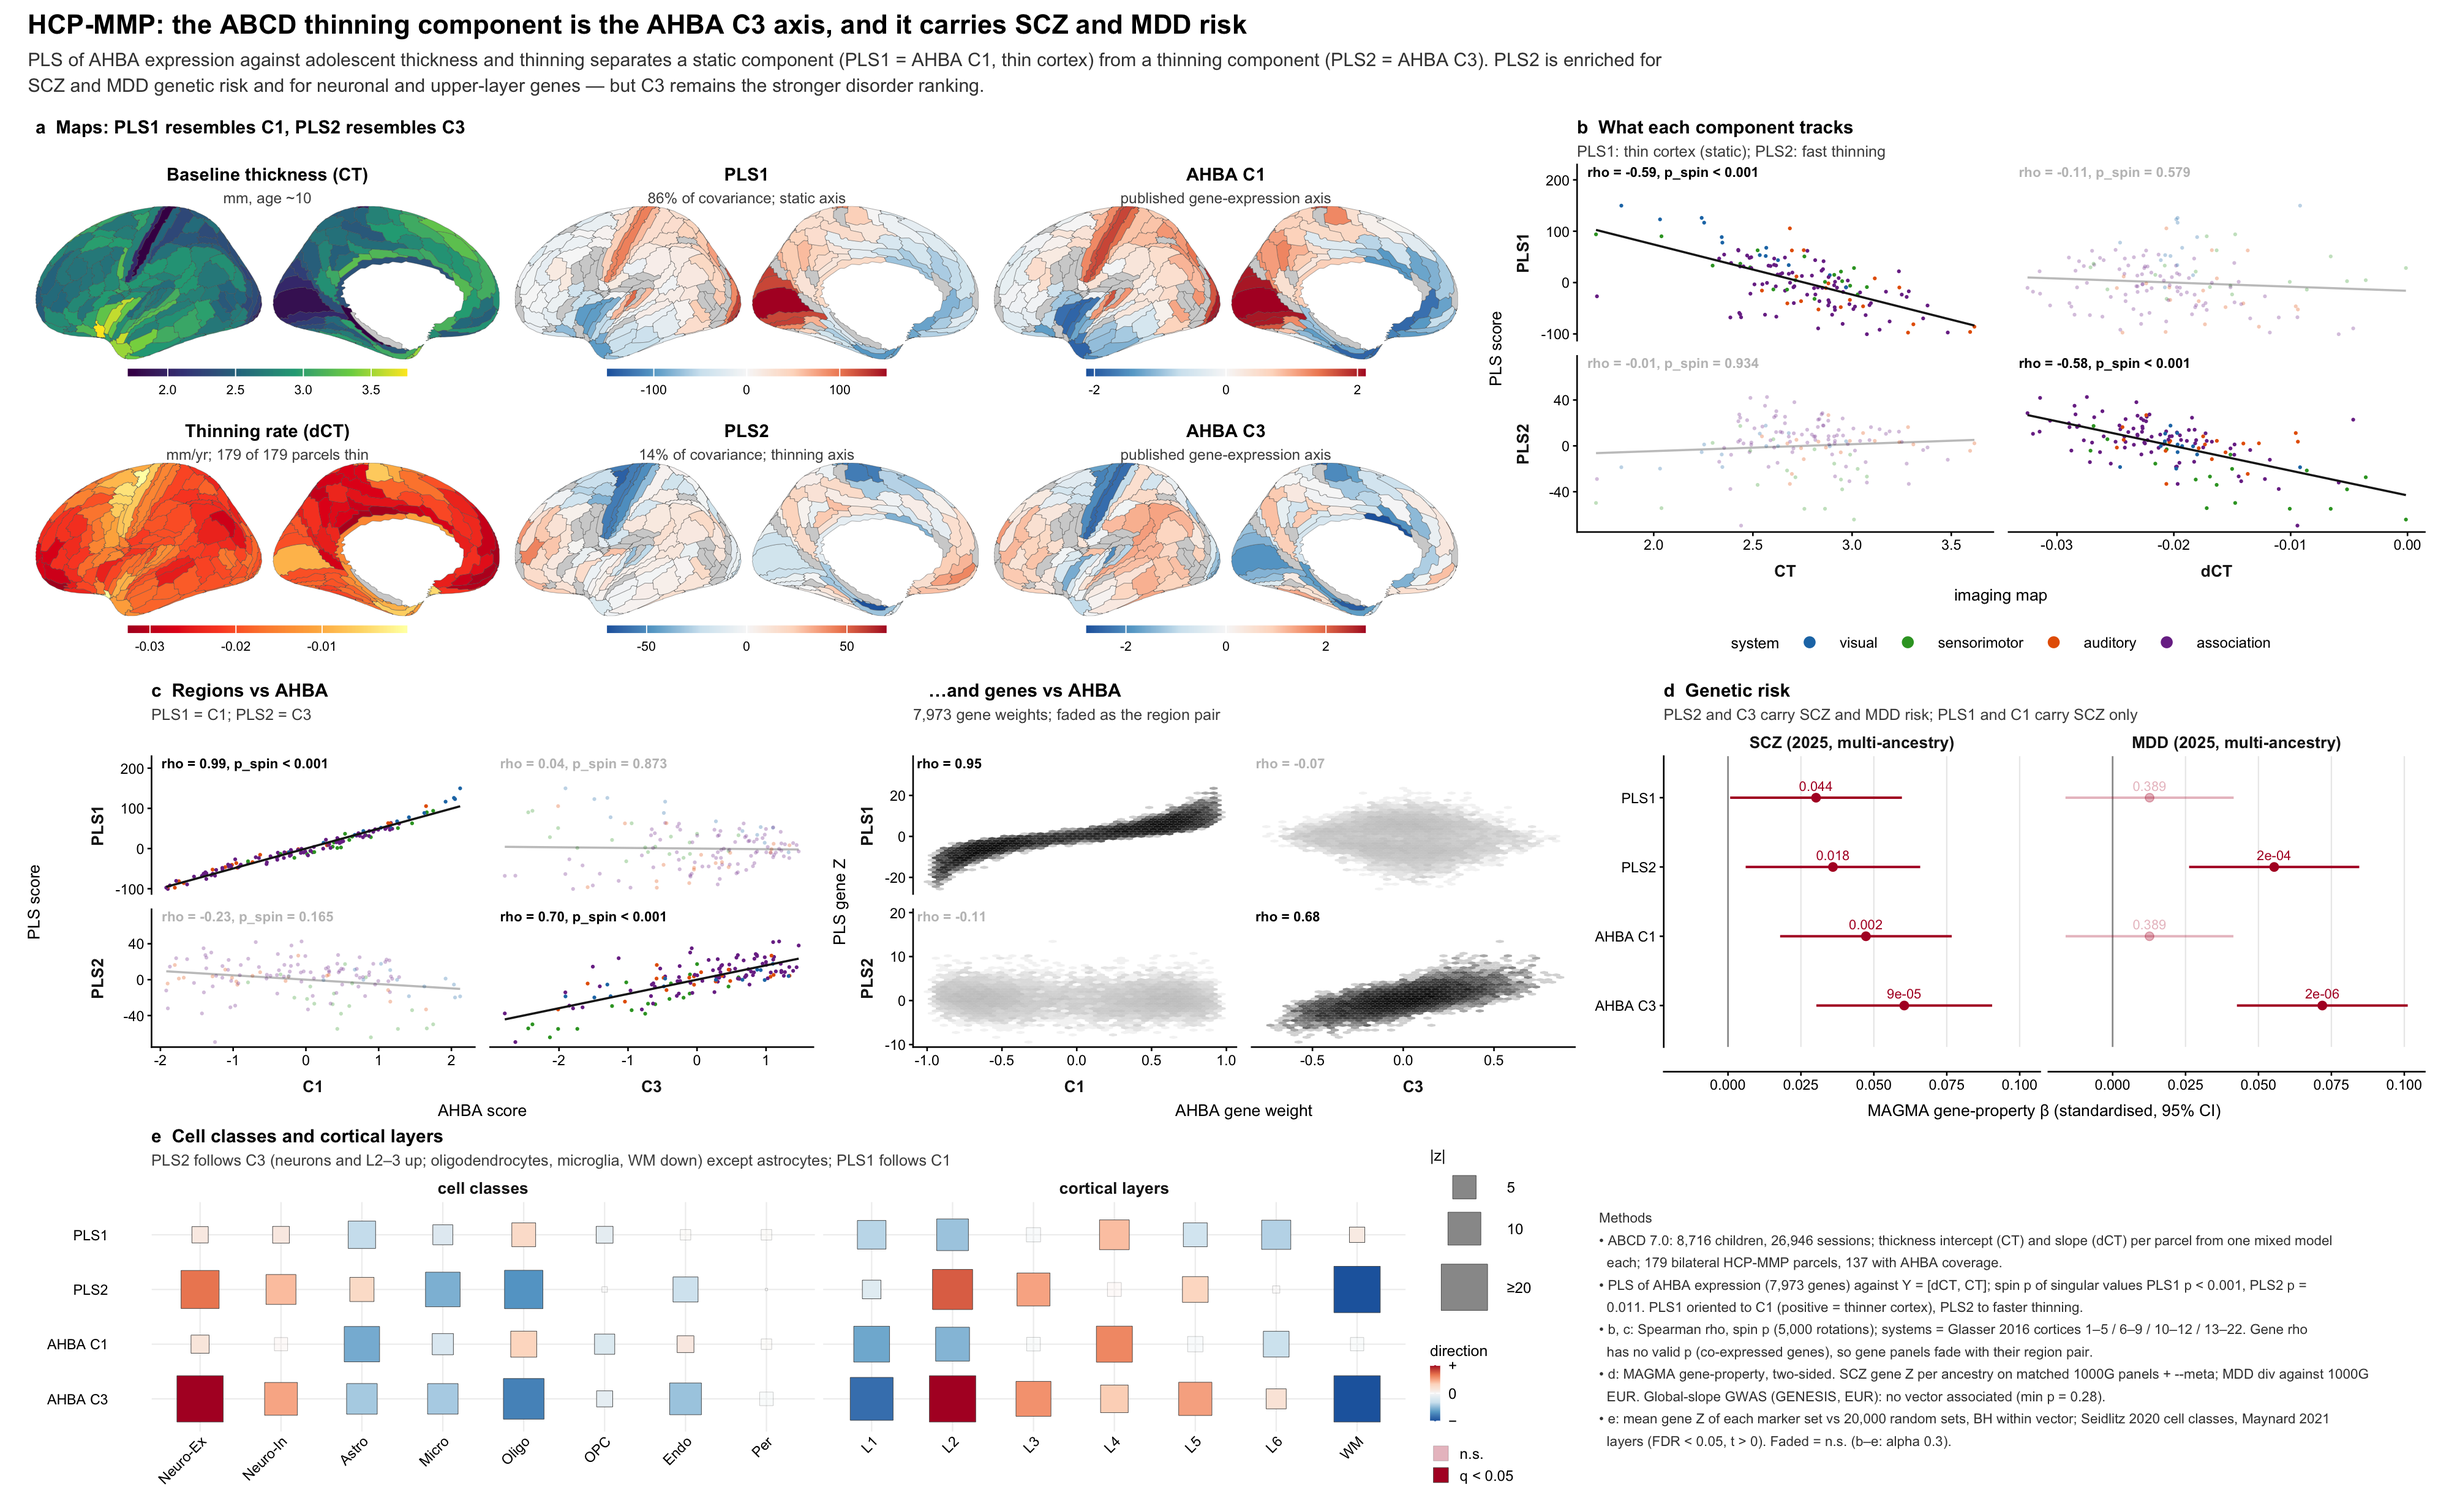
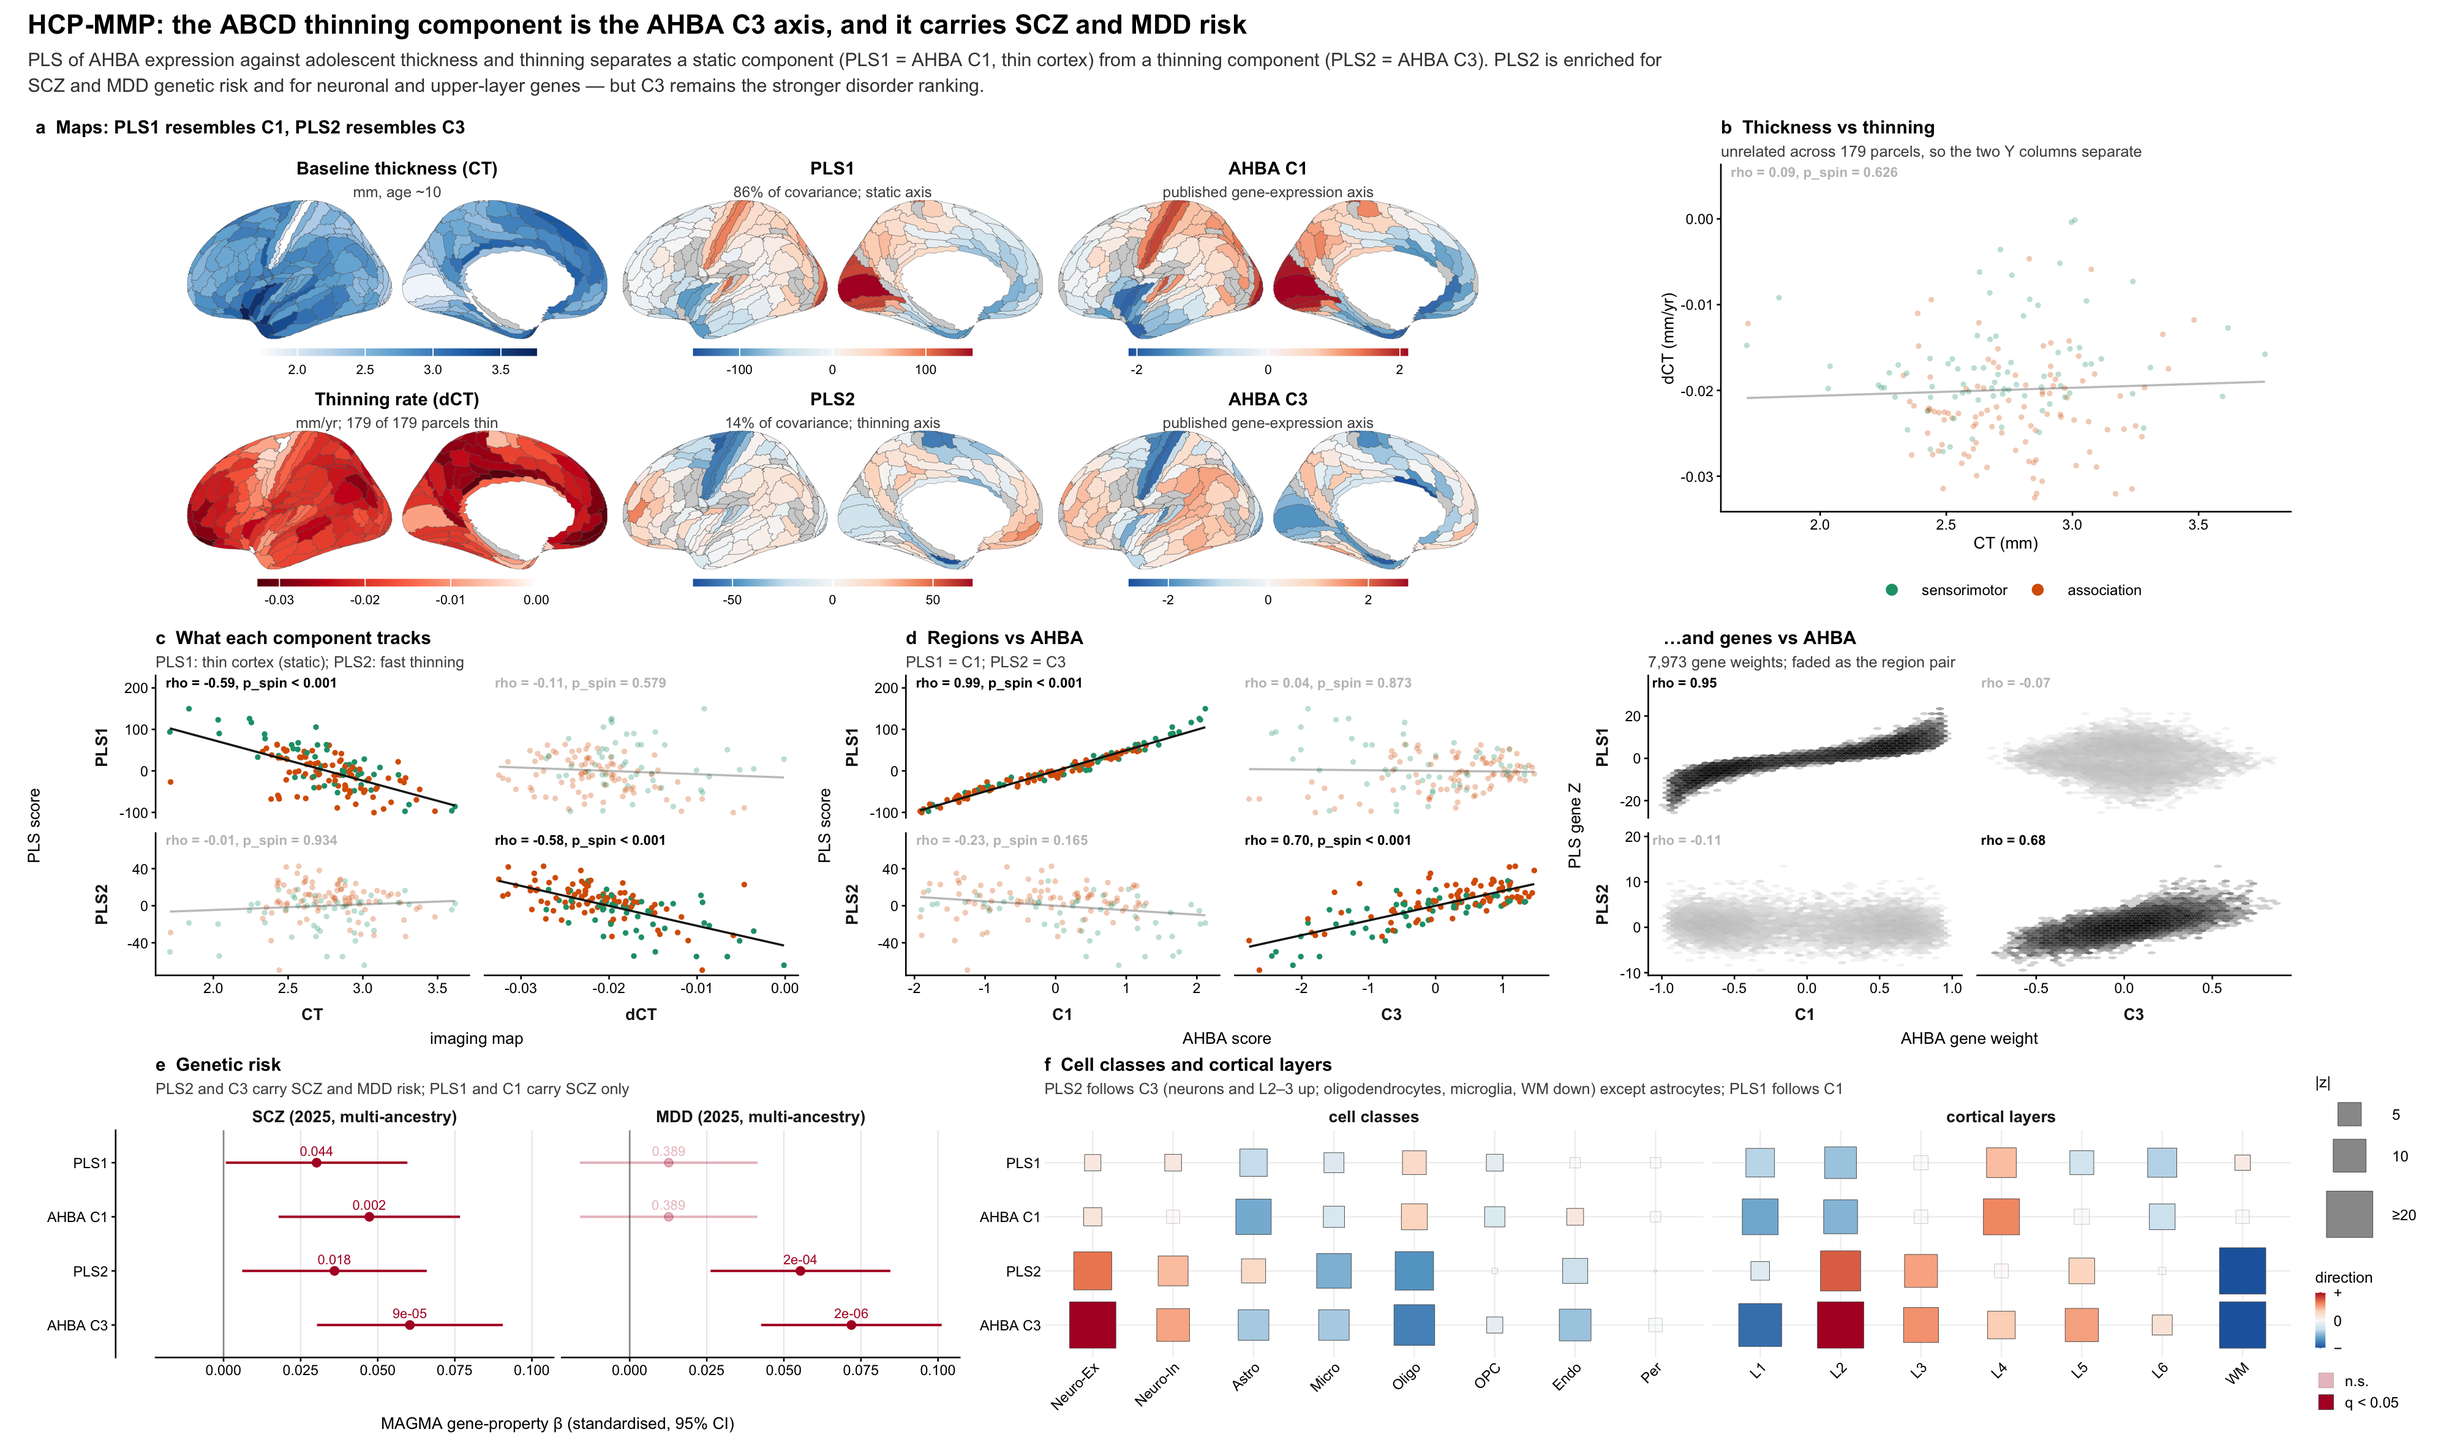
ahba_pls: summary slide v3 -- CT vs dCT panel, two systems, white-anchored maps
- New panel b: CT vs dCT across all 179 parcels, rho 0.09, p_spin 0.63 (spin
  test added to 22_hcp_summary.py) -- thickness and thinning are spatially
  unrelated, which is why Y = [dCT, CT] separates cleanly.
- Two systems: Glasser cortices 1-12 (visual, sensorimotor, auditory) =
  sensorimotor, 13-22 = association; points slightly larger.
- CT white -> blue, dCT white (0 mm/yr) -> red (fastest thinning), with
  intermediate Brewer stops so the mid-range does not wash out.
- Panels e (MAGMA) and f (cells/layers) ordered PLS1, C1, PLS2, C3.
- Methods block removed from the slide; its content is now in the README section.
- Layout: maps | CT-vs-dCT / components vs CT,dCT | regions | genes / MAGMA | cells+layers.

diff --git a/ahba_pls/code/22_hcp_summary.py b/ahba_pls/code/22_hcp_summary.py
@@ -91,6 +91,9 @@ for comp, s in (("PLS1", S1), ("PLS2", S2)):
                                   centroids=pls.HCP_CENTROIDS)
         rows.append(dict(x=ref, y=comp, rho=rho, p_spin=p,
                          n=int(s.index.intersection(maps[ref].dropna().index).size)))
+# the two imaging maps against each other, on every parcel (not just AHBA-covered)
+rho, p, _ = pls.spin_corr(maps["CT"], maps["dCT"], n_perm=N_SPIN, seed=SEED, centroids=pls.HCP_CENTROIDS)
+rows.append(dict(x="CT", y="dCT", rho=rho, p_spin=p, n=int(maps[["CT", "dCT"]].dropna().shape[0])))
 MP = pd.DataFrame(rows)
 MP.to_csv(RES / "hcp_summary_map_pairs.tsv", sep="\t", index=False, float_format="%.4g")
 

diff --git a/ahba_pls/README.md b/ahba_pls/README.md
@@ -756,22 +756,37 @@ keeps the raw SVD sign). PLS2 is in the thinning orientation used everywhere els
 - **PLS2 is the thinning axis and is C3**: ρ = -0.58 with dCT (dCT is negative mm/yr, so this is faster thinning), -0.01 with CT; 0.70 / 0.68
   with C3. SCZ 0.036, p = 0.018, MDD 0.055, p = 0.0002; C3 is stronger for both
   (0.060, p = 8.6e-05 / 0.072, p = 1.5e-06).
-- **Panel d uses `MDD_div`**, so both disorders are multi-ancestry GWAS. The two files differ in LD
+- **Panel e uses `MDD_div`**, so both disorders are multi-ancestry GWAS. The two files differ in LD
   handling: SCZ25_META is per-ancestry against matched panels, while MDD div is the multi-ancestry file
   against 1000G EUR. That makes little difference here (PLS2: 0.051, p = 0.00062 on MDD_EUR).
-- **Systems in b, c**: parcels are coloured by Glasser 2016's 22 cortices (`data/reference/hcp_cortices/`:
-  `HCP-MMP1_UniqueRegionList.csv`, `Cortex_ID`), grouped as in `HCP-MMP1_cortices.txt`: 1–5 visual,
-  6–9 sensorimotor, 10–12 auditory (which includes insular/frontal opercular, as that file groups it),
-  13–22 association. The 137 covered parcels split 86 association / 19 sensorimotor / 19 auditory / 13 visual. Downloaded 2026-09-24 from
+- **Panel layout** (letters as on the slide): a maps (CT / PLS1 / C1 over dCT / PLS2 / C3), b CT vs
+  dCT, c components vs CT and dCT, d regions and genes vs C1/C3, e MAGMA, f cell classes and layers;
+  e and f list PLS1, C1, PLS2, C3 top to bottom. The methods live here, not on the slide.
+- **CT vs dCT (b)**: ρ = 0.09, p_spin = 0.63 over all 179 parcels. Baseline thickness and thinning rate
+  are spatially unrelated, which is why Y = [dCT, CT] separates cleanly into a static and a thinning
+  component.
+- **Imaging colour scales (a)**: white-anchored. CT runs white (thinnest) to blue (thickest); dCT runs white
+  (0 mm/yr, no thinning) to red (fastest thinning).
+- **Systems in b–d**: two groups from Glasser 2016's 22 cortices (`data/reference/hcp_cortices/`:
+  `HCP-MMP1_UniqueRegionList.csv`, `Cortex_ID`, groupings from `HCP-MMP1_cortices.txt`). Cortices 1–12 (visual,
+  sensorimotor, auditory incl. insular/frontal opercular) = **sensorimotor**; 13–22 = **association**.
+  The 137 covered parcels split 51 sensorimotor / 86 association. The four-way lookup is kept in
+  `hcp_parcel_systems.csv`; the slide collapses it. Downloaded 2026-09-24 from
   bitbucket.org/dpat/tools (linked from neuroimaging-core-docs); lookup `hcp_parcel_systems.csv`.
-- **Fading (alpha 0.3)**: b, c region panels at spin p ≥ 0.05; d at p ≥ 0.05; e at BH q ≥ 0.05. Gene-level ρ
+- **Fading (alpha 0.3)**: b–d region panels at spin p ≥ 0.05; e at p ≥ 0.05; f at BH q ≥ 0.05. Gene-level ρ
   has no valid p (7,973 co-expressed genes make every ρ nominally significant), so each gene panel is
   faded with its matching region pair.
-- **Panel e**: square size = |z| (capped at 20), fill = direction. Enrichment z uses an
+- **Panel f**: square size = |z| (capped at 20), fill = direction. Enrichment z uses an
   independent-gene null, which marker co-expression makes anti-conservative. Layers = Maynard 2021,
   FDR < 0.05 and t > 0, the `which='maynard'` definition of `AHBA/code/enrichments_data.get_layer_genes`.
 - **Global slope**: tested (`slope_{1lmm,perregion}_{HCP,DK}` in `magma_disorder_panel.tsv`) and left off
   the slide — none of PLS1, PLS2, C1, C3 is associated with any of the four gene analyses (smallest p = 0.28).
+
+- **Other details that were on the slide**: ABCD 7.0, 8,716 children and 26,946 sessions (`hcp_run_provenance.tsv`);
+  CT and dCT are the intercept and age slope of one mixed model per parcel; 179 bilateral HCP-MMP
+  parcels, 137 with AHBA coverage; PLS on the 7,973-gene C1–C3 gene set, spin p of the singular values
+  PLS1 < 0.001 and PLS2 = 0.011; map ρ are Spearman with 5,000-rotation spin tests; MAGMA gene-property
+  tests are two-sided.
 
 ## Reproducing
 
